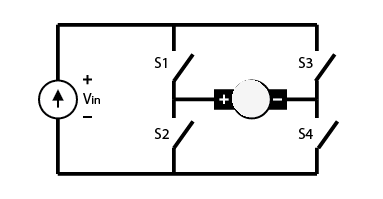
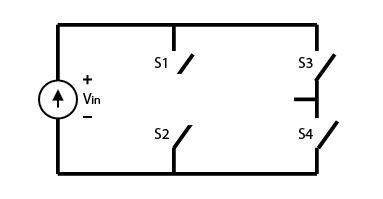
Add files via upload

diff --git a/styles.css b/styles.css
@@ -8,9 +8,9 @@
 /* Work */
 .work-section{background:var(--bg)}.work-toolbar{display:flex;justify-content:space-between;align-items:center;gap:20px;margin-bottom:26px}.filter-group{display:flex;gap:7px;flex-wrap:wrap}.filter-btn{border:1px solid var(--line);background:transparent;color:var(--secondary);padding:11px 16px;font:700 10px/1.3 'Space Mono',monospace;letter-spacing:.02em;transition:background .2s,color .2s,border-color .2s}.filter-btn:hover{border-color:var(--mint);color:var(--mint)}.filter-btn.active{background:var(--mint);color:#1b1332;border-color:var(--mint)}.work-count{color:var(--muted);font:700 10px 'Space Mono',monospace;white-space:nowrap}.project-grid{display:grid;grid-template-columns:repeat(3,1fr);gap:17px}.project-card{padding:0;text-align:left;border:1px solid var(--line);background:var(--surface);color:var(--ink);min-width:0;display:flex;flex-direction:column;position:relative;overflow:hidden;transition:transform .25s,border-color .25s,box-shadow .25s}.project-card:hover{transform:translateY(-6px);border-color:rgba(162,224,201,.6);box-shadow:0 26px 40px var(--shadow)}.project-thumb{width:100%;aspect-ratio:1.56;overflow:hidden;position:relative;background:#1b1332;border-bottom:1px solid var(--line)}.project-thumb img{width:100%;height:100%;object-fit:cover;transition:transform .45s}.project-card:hover .project-thumb img{transform:scale(1.065)}.project-thumb:after{content:"";position:absolute;inset:0;pointer-events:none;background:linear-gradient(180deg,transparent 70%,rgba(8,23,26,.18))}.project-featured{position:absolute;top:16px;left:16px;z-index:1;background:#dac7ff;color:#271a42;padding:7px 9px;font:700 9px 'Space Mono',monospace;letter-spacing:.07em}.project-inner{padding:25px;display:flex;flex-direction:column;flex:1}.project-caption{display:flex;justify-content:space-between;align-items:center;gap:6px;font:700 9px 'Space Mono',monospace;letter-spacing:.08em;color:var(--mint);margin-bottom:17px}.project-caption span:last-child{color:var(--muted)}.project-inner h3{font:500 24px/1.25 'Space Grotesk',sans-serif;letter-spacing:-.04em;margin:0 0 12px}.project-inner>p{font-size:13px;line-height:1.8;color:var(--secondary);margin:0 0 25px;flex:1}.project-foot{display:flex;justify-content:space-between;align-items:center;gap:12px;border-top:1px solid var(--line);padding-top:17px}.project-metric{font:600 15px 'Space Grotesk',sans-serif;letter-spacing:-.02em}.project-foot .project-arrow{font-size:21px;color:var(--mint)}.project-tags-small{display:flex;flex-wrap:wrap;gap:6px;margin-bottom:16px}.project-tags-small span{font:700 9px 'Space Mono',monospace;color:var(--muted)}.project-tags-small span+span:before{content:'/';margin-right:6px}.discovery-feature{margin-top:22px;display:grid;grid-template-columns:275px 1fr 150px;align-items:center;gap:36px;border:1px dashed rgba(194,164,255,.5);background:linear-gradient(110deg,var(--faint),transparent);padding:27px 35px}.discovery-symbol img{width:100%;max-height:180px;object-fit:contain}.discovery-copy .kicker{margin-bottom:8px}.discovery-status{display:inline-flex;align-items:center;gap:8px;border:1px solid var(--line);padding:5px 9px;font:700 8px 'Space Mono',monospace;letter-spacing:.09em;color:var(--secondary);margin-bottom:7px}.small-dot{width:6px;height:6px;border-radius:50%;background:var(--orange)}.discovery-copy h3{font:500 28px 'Space Grotesk',sans-serif;letter-spacing:-.04em;margin:0 0 8px}.discovery-copy p{font-size:13px;line-height:1.75;color:var(--secondary);margin:0 0 5px}.discovery-copy .discovery-note{color:var(--muted);font-size:11px}.discovery-aside{align-self:start;text-align:right;font:700 9px 'Space Mono',monospace;color:var(--muted)}
 /* Experience */
-.experience-section{background:var(--surface);border-block:1px solid var(--line)}.experience-layout{display:grid;grid-template-columns:31% 1fr;gap:10%}.experience-quote{padding:5px 0 0;position:relative}.quote-symbol{font:500 118px/.8 Georgia,serif;color:var(--mint)}.experience-quote p{font:500 clamp(24px,2.5vw,35px)/1.3 'Space Grotesk',sans-serif;letter-spacing:-.04em;margin:2px 0 28px}.quote-caption{font:700 9px 'Space Mono',monospace;color:var(--muted);letter-spacing:.08em}.timeline{border-top:1px solid var(--line)}.timeline-item{display:grid;grid-template-columns:160px 1fr;gap:25px;border-bottom:1px solid var(--line);padding:29px 0}.timeline-side{display:flex;flex-direction:column;gap:18px;align-items:flex-start}.timeline-when{font:700 9px/1.5 'Space Mono',monospace;color:var(--mint);letter-spacing:.03em;display:flex;justify-content:space-between;gap:9px;width:100%}.timeline-when span{color:var(--muted)}.timeline-side-logo-wrap{width:100%;display:flex;justify-content:flex-start}.timeline-content h3{font:500 24px/1.2 'Space Grotesk',sans-serif;letter-spacing:-.04em;margin:0 0 5px}.timeline-company{color:var(--mint);font-size:13px;margin:0 0 12px!important}.timeline-company span{color:var(--muted)}.timeline-content>p:not(.timeline-company){color:var(--secondary);font-size:13px;line-height:1.85;margin:0 0 18px}.timeline-side-logo{width:84px;height:84px;object-fit:contain;border-radius:18px;background:#fff;border:1px solid var(--line);padding:10px;box-shadow:0 10px 24px rgba(0,0,0,.12)}.timeline-tags{display:flex;gap:8px;flex-wrap:wrap}.timeline-tags span{font:700 8px 'Space Mono',monospace;color:var(--muted);border:1px solid var(--line);padding:5px 8px}
+.experience-section{background:var(--surface);border-block:1px solid var(--line)}.experience-layout{display:grid;grid-template-columns:31% 1fr;gap:10%}.experience-quote{padding:5px 0 0;position:relative}.quote-symbol{font:500 118px/.8 Georgia,serif;color:var(--mint)}.experience-quote p{font:500 clamp(24px,2.5vw,35px)/1.3 'Space Grotesk',sans-serif;letter-spacing:-.04em;margin:2px 0 28px}.quote-caption{font:700 9px 'Space Mono',monospace;color:var(--muted);letter-spacing:.08em}.timeline{border-top:1px solid var(--line)}.timeline-item{display:grid;grid-template-columns:190px 1fr;gap:25px;border-bottom:1px solid var(--line);padding:29px 0}.timeline-side{display:flex;flex-direction:column;gap:18px;align-items:flex-start}.timeline-when{font:700 9px/1.5 'Space Mono',monospace;color:var(--mint);letter-spacing:.03em;display:flex;justify-content:space-between;gap:9px;width:100%}.timeline-when span{color:var(--muted)}.timeline-side-logo-wrap{width:100%;display:flex;justify-content:flex-start}.timeline-content h3{font:500 24px/1.2 'Space Grotesk',sans-serif;letter-spacing:-.04em;margin:0 0 5px}.timeline-company{color:var(--mint);font-size:13px;margin:0 0 12px!important}.timeline-company span{color:var(--muted)}.timeline-content>p:not(.timeline-company){color:var(--secondary);font-size:13px;line-height:1.85;margin:0 0 18px}.timeline-side-logo{width:110px;height:110px;object-fit:contain;border-radius:20px;background:#fff;border:1px solid var(--line);padding:12px;box-shadow:0 10px 24px rgba(0,0,0,.12)}.timeline-tags{display:flex;gap:8px;flex-wrap:wrap}.timeline-tags span{font:700 8px 'Space Mono',monospace;color:var(--muted);border:1px solid var(--line);padding:5px 8px}
 /* Roadmap */
-.roadmap-intro{display:grid;grid-template-columns:1fr 1fr;gap:7%;margin:0 0 45px 26%}.roadmap-intro p{font-size:15px;line-height:1.95;color:var(--secondary);margin:0}.roadmap-grid{display:grid;grid-template-columns:repeat(4,1fr);gap:1px;background:var(--line);border:1px solid var(--line)}.roadmap-card{background:var(--bg);padding:27px 25px 34px;min-height:360px;transition:background .2s}.roadmap-card:hover{background:var(--surface2)}.roadmap-top{display:flex;justify-content:space-between;font:700 9px 'Space Mono',monospace;color:var(--muted);letter-spacing:.04em}.roadmap-top span:first-child{color:var(--mint)}.roadmap-icon{font:400 48px/1 'Space Grotesk',sans-serif;color:var(--orange);height:102px;display:flex;align-items:center}.roadmap-card h3{font:500 21px/1.18 'Space Grotesk',sans-serif;letter-spacing:-.03em;margin:0 0 15px}.roadmap-card p{font-size:13px;line-height:1.83;color:var(--secondary);margin:0}.skills-section{display:grid;grid-template-columns:37% 1fr;gap:9%;border-top:1px solid var(--line);margin-top:90px;padding-top:69px}.skills-section h3{font:500 37px/1.16 'Space Grotesk',sans-serif;letter-spacing:-.055em;margin:0 0 20px}.skills-section>div:first-child>p:last-child{font-size:14px;line-height:1.9;color:var(--secondary)}.skills-groups{display:grid;gap:24px}.skill-group{border-bottom:1px solid var(--line);padding-bottom:24px}.skill-group h4{font:700 10px 'Space Mono',monospace;letter-spacing:.07em;color:var(--mint);margin:0 0 17px}.skill-group>div{display:flex;flex-wrap:wrap;gap:9px}.skill-group span{border:1px solid var(--line);padding:8px 11px;font-size:12px;color:var(--secondary)}
+.roadmap-intro{display:grid;grid-template-columns:1fr 1fr;gap:7%;margin:0 0 45px 0}.roadmap-intro p{font-size:15px;line-height:1.95;color:var(--secondary);margin:0}.roadmap-grid{display:grid;grid-template-columns:repeat(4,1fr);gap:1px;background:var(--line);border:1px solid var(--line)}.roadmap-card{background:var(--bg);padding:27px 25px 34px;min-height:360px;transition:background .2s}.roadmap-card:hover{background:var(--surface2)}.roadmap-top{display:flex;justify-content:space-between;font:700 9px 'Space Mono',monospace;color:var(--muted);letter-spacing:.04em}.roadmap-top span:first-child{color:var(--mint)}.roadmap-icon{font:400 48px/1 'Space Grotesk',sans-serif;color:var(--orange);height:102px;display:flex;align-items:center}.roadmap-card h3{font:500 21px/1.18 'Space Grotesk',sans-serif;letter-spacing:-.03em;margin:0 0 15px}.roadmap-card p{font-size:13px;line-height:1.83;color:var(--secondary);margin:0}.skills-section{display:grid;grid-template-columns:37% 1fr;gap:9%;border-top:1px solid var(--line);margin-top:90px;padding-top:69px}.skills-section h3{font:500 37px/1.16 'Space Grotesk',sans-serif;letter-spacing:-.055em;margin:0 0 20px}.skills-section>div:first-child>p:last-child{font-size:14px;line-height:1.9;color:var(--secondary)}.skills-groups{display:grid;gap:24px}.skill-group{border-bottom:1px solid var(--line);padding-bottom:24px}.skill-group h4{font:700 10px 'Space Mono',monospace;letter-spacing:.07em;color:var(--mint);margin:0 0 17px}.skill-group>div{display:flex;flex-wrap:wrap;gap:9px}.skill-group span{border:1px solid var(--line);padding:8px 11px;font-size:12px;color:var(--secondary)}
 /* Resume */
 .resume-section{background:var(--surface);border-block:1px solid var(--line)}.resume-layout{display:grid;grid-template-columns:1fr .85fr;gap:12%;align-items:center}.resume-layout h2{font-size:clamp(40px,4.7vw,63px)}.resume-layout>div:first-child>p:not(.kicker):not(.resume-accessibility){font-size:15px;line-height:1.92;color:var(--secondary);max-width:490px;margin:26px 0}.resume-actions{margin:25px 0}.resume-accessibility{color:var(--muted);font-size:11px;max-width:390px;line-height:1.7}.resume-preview{background:var(--canvas);border:1px solid var(--line);padding:12px;box-shadow:22px 22px 0 var(--faint)}.resume-preview-head{font:700 9px 'Space Mono',monospace;color:var(--muted);padding:9px 9px 18px}.resume-preview object{display:block;width:100%;height:480px;border:0;background:#fff}.resume-fallback{height:450px;color:#3d2a58;background:#fff;display:flex;flex-direction:column;align-items:center;justify-content:center;text-align:center;padding:20px}.resume-fallback span{font-size:60px}.resume-fallback a{text-decoration:underline}
 /* Contact */
@@ -57,4 +57,4 @@
 .project-card:has(.project-thumb img[src*="keychain"]) .project-thumb img{object-fit:contain;padding:12px;background:#171127}
 
 
-@media(max-width:680px){.timeline-side{gap:10px}.timeline-side-logo{width:72px;height:72px}.about-visual{max-width:420px;width:100%;margin:0 auto 15px}.identity-photo-card{min-height:360px}}
+@media(max-width:680px){.timeline-side{gap:10px}.timeline-side-logo{width:88px;height:88px}.about-visual{max-width:420px;width:100%;margin:0 auto 15px}.identity-photo-card{min-height:360px}}

diff --git a/index.html b/index.html
@@ -87,7 +87,7 @@
         <article class="timeline-item"><div class="timeline-side"><div class="timeline-when">JUN – AUG 2026 <span>01</span></div><div class="timeline-side-logo-wrap"><img class="timeline-side-logo" src="humanity-logo.png" alt="huMannity Medtec logo" loading="lazy"></div></div><div class="timeline-content"><h3>Electrical Engineering Intern</h3><p class="timeline-company">huMannity Medtec <span>· Santa Clarita, CA</span></p><p>Worked across circuit design, hardware validation, embedded communication, and automated testing. Highlights included replacing an eight-hour oscilloscope workflow with a Python-driven process that ran in under three minutes, validating switching and ECG-related signal paths, and writing embedded firmware to verify PMIC communication.</p><div class="timeline-tags"><span>TEST AUTOMATION</span><span>ANALOG CIRCUITS</span><span>EMBEDDED</span></div></div></article>
         <article class="timeline-item"><div class="timeline-side"><div class="timeline-when">AUG 2026 – PRESENT <span>02</span></div><div class="timeline-side-logo-wrap"><img class="timeline-side-logo" src="siliconjackets-logo.png" alt="SiliconJackets logo" loading="lazy"></div></div><div class="timeline-content"><h3>Analog Design Team Member</h3><p class="timeline-company">SiliconJackets <span>· Georgia Tech</span></p><p>Designed and verified a current-starved ring VCO and six-stage output buffer in SKY130, using Cadence Virtuoso for schematic capture, simulation, full-custom layout, and DRC/LVS verification. The team environment has given me regular practice with design reviews, iteration, and communicating technical decisions clearly.</p><div class="timeline-tags"><span>IC DESIGN</span><span>LAYOUT</span><span>VERIFICATION</span></div></div></article>
         <article class="timeline-item"><div class="timeline-side"><div class="timeline-when">AUG 2026 – PRESENT <span>03</span></div><div class="timeline-side-logo-wrap"><img class="timeline-side-logo" src="hytech-logo.jpg" alt="HyTech Racing logo" loading="lazy"></div></div><div class="timeline-content"><h3>Electrical Team Member</h3><p class="timeline-company">HyTech Racing <span>· Georgia Tech</span></p><p>Worked on PCB design, hardware validation, and embedded firmware projects, including a USB-C LED keychain board inspired by the Ready-to-Move light and firmware for sensor interfacing. HyTech has helped me practice taking ideas from datasheet research through layout, implementation, and test.</p><div class="timeline-tags"><span>PCB DESIGN</span><span>EMBEDDED</span><span>TEAM PROJECTS</span></div></div></article>
-        <article class="timeline-item"><div class="timeline-side"><div class="timeline-when">AUG 2022 – JUN 2025 <span>04</span></div></div><div class="timeline-content"><h3>Lead Programmer</h3><p class="timeline-company">FIRST Robotics Team <span>· California</span></p><p>Led programming for drivetrain, vision-assisted tracking, and arm control systems. I mentored more than ten fellow programmers, developing an appreciation for code that can be understood, tested, and extended by a team—not just its original author.</p><div class="timeline-tags"><span>JAVA</span><span>ROBOTICS</span><span>MENTORING</span></div></div></article>
+        <article class="timeline-item"><div class="timeline-side"><div class="timeline-when">AUG 2022 – JUN 2025 <span>04</span></div><div class="timeline-side-logo-wrap"><img class="timeline-side-logo" src="robotics.svg" alt="FIRST Robotics project logo" loading="lazy"></div></div><div class="timeline-content"><h3>Lead Programmer</h3><p class="timeline-company">FIRST Robotics Team <span>· California</span></p><p>Led programming for drivetrain, vision-assisted tracking, and arm control systems. I mentored more than ten fellow programmers, developing an appreciation for code that can be understood, tested, and extended by a team—not just its original author.</p><div class="timeline-tags"><span>JAVA</span><span>ROBOTICS</span><span>MENTORING</span></div></div></article>
       </div></div>
     </div></section>
 
